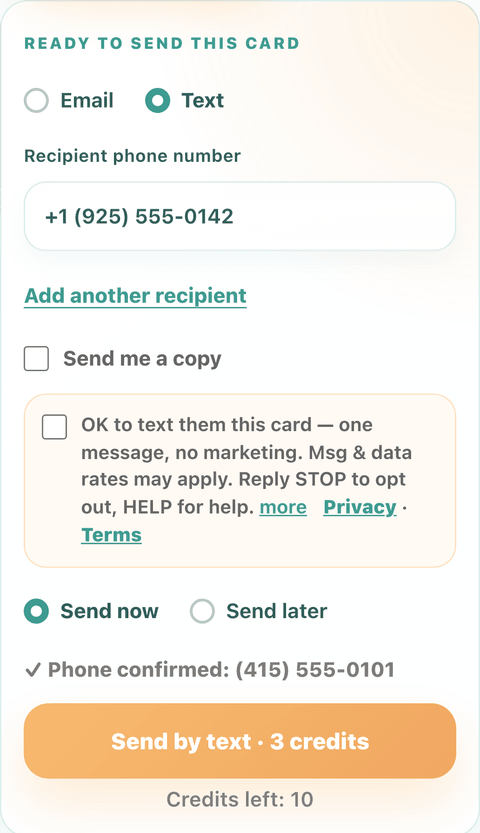
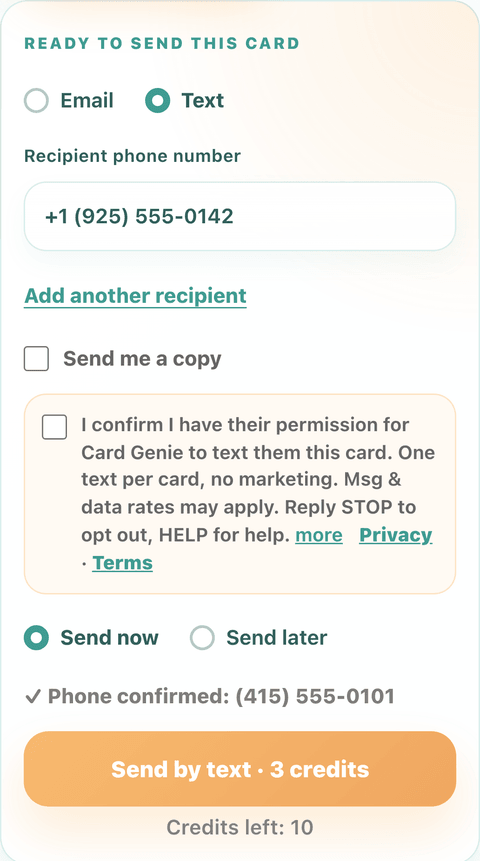
SMS opt-in page: updated consent screenshot

diff --git a/public/sms-opt-in/index.html b/public/sms-opt-in/index.html
@@ -142,7 +142,7 @@
         <p>Screenshot of the send form, showing the recipient phone number field the user fills in and the opt-in
           checkbox (unchecked by default; "Send by text" stays disabled until it is checked):</p>
         <p>
-          <img src="/sms-opt-in/opt-in-form.png" width="480" alt="Card Genie send form with Text selected: the recipient phone number field filled in with (925) 555-0142, and the unchecked SMS consent checkbox reading: OK to text them this card, one message, no marketing. Msg and data rates may apply. Reply STOP to opt out, HELP for help." style="max-width:100%;height:auto;border:1px solid #d9e8e5;border-radius:12px" />
+          <img src="/sms-opt-in/opt-in-form.png?v=2" width="480" alt="Card Genie send form with Text selected: the recipient phone number field filled in with (925) 555-0142, and the unchecked SMS consent checkbox reading: I confirm I have their permission for Card Genie to text them this card. One text per card, no marketing. Msg and data rates may apply. Reply STOP to opt out, HELP for help." style="max-width:100%;height:auto;border:1px solid #d9e8e5;border-radius:12px" />
         </p>
         <p>
           Tapping "more" next to the checkbox shows: "Card Genie sends one text per card you choose to deliver by text.
